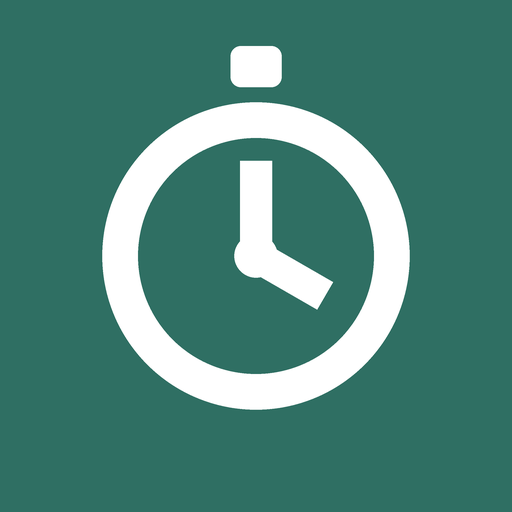
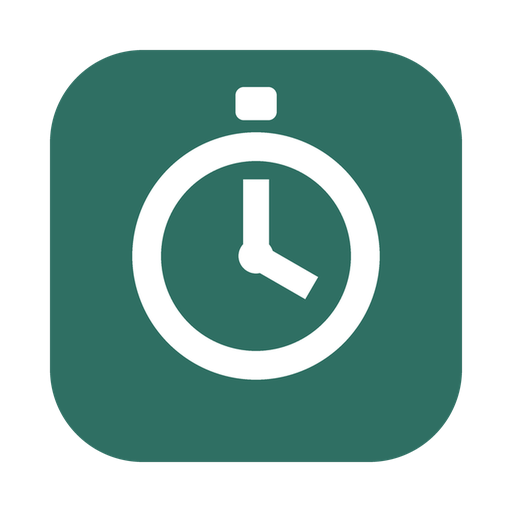
Icône de l'app : carré arrondi pour l'installation, version maskable séparée

diff --git a/sw.js b/sw.js
@@ -1,7 +1,7 @@
 // Cache hors ligne : PL-planif’ fonctionne en classe sans réseau après une première visite.
 // Pour publier une nouvelle version : change le numéro de CACHE ci-dessous.
-const CACHE = "plplanif-v3";
-const SHELL = ["./", "index.html", "manifest.json", "icon-32.png", "icon-180.png", "icon-512.png",
+const CACHE = "plplanif-v4";
+const SHELL = ["./", "index.html", "manifest.json", "icon-32.png", "icon-180.png", "icon-512.png", "icon-maskable-512.png",
   "fonts/atkinson-400.woff2", "fonts/atkinson-400-i.woff2", "fonts/atkinson-700.woff2",
   "fonts/lexend.woff2", "fonts/andika-400.woff2"];
 
